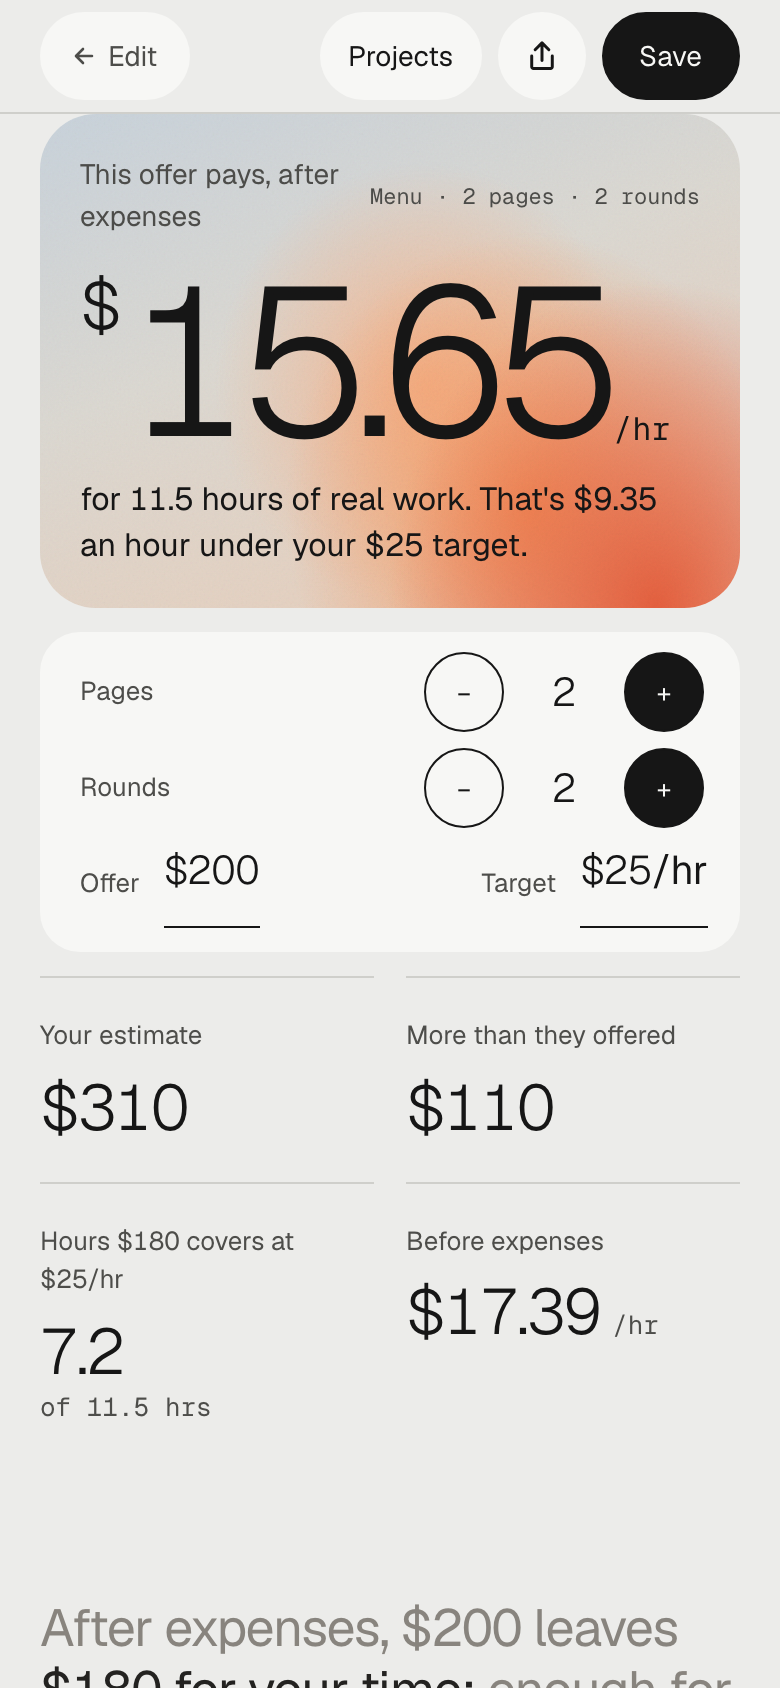
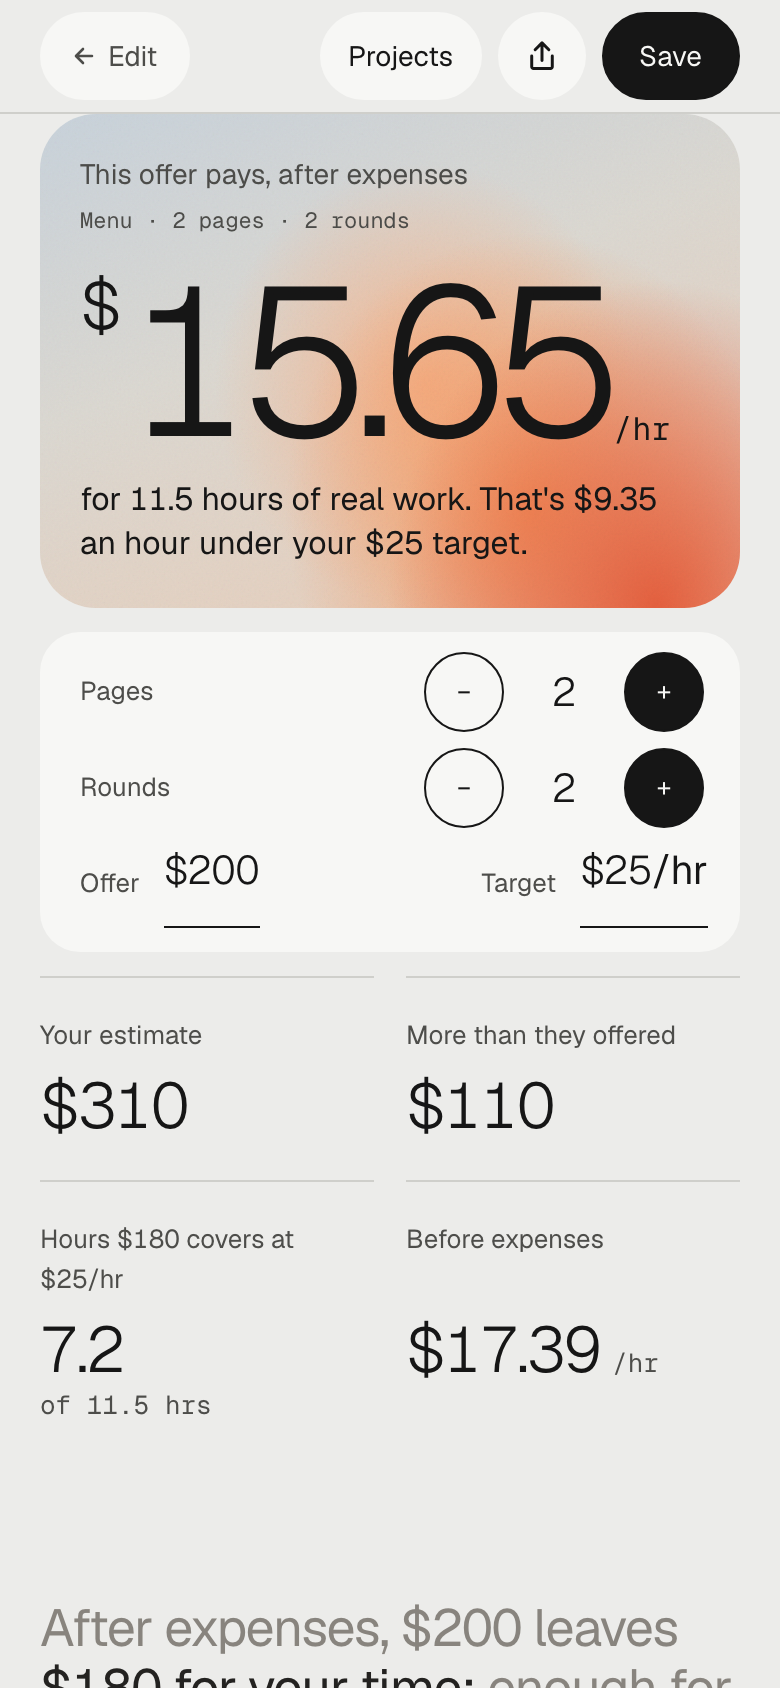
Fit the phone hero label on one line and line up the stat numbers

diff --git a/styles.css b/styles.css
@@ -3625,6 +3625,31 @@ textarea {
   grid-column: span 2;
 }
 
+/* Stats 2 by 2 (under 960px): each pair shares its label row, as tall as the
+   longer label, so the two numbers sit on one line even when a label wraps. */
+@media (max-width: 959px) {
+  .stats {
+    row-gap: 0;
+  }
+
+  .stats > div {
+    display: grid;
+    grid-row: span 2;
+    grid-template-rows: subgrid;
+    /* One column as wide as the stat, so big numbers still shrink to fit. */
+    grid-template-columns: minmax(0, 1fr);
+    row-gap: 0;
+  }
+
+  .stats > div:nth-child(-n + 2) {
+    margin-bottom: 28px;
+  }
+
+  .stats dd {
+    align-self: start;
+  }
+}
+
 /* Tablet (8 columns): the inputs and charts stack; stats 2 by 2; price and
    reply side by side, 4 + 4. */
 @media (min-width: 760px) {
@@ -4259,11 +4284,11 @@ textarea {
     padding: 20px;
   }
 
-  /* "This offer pays" and the job summary on top, the number, then the sentence. */
+  /* "This offer pays", the job summary on its own line under it, the number,
+     then the sentence. The label gets the whole row so it fits on one line. */
   .hero-content {
     display: grid;
-    grid-template-columns: minmax(0, 1fr) auto;
-    column-gap: 12px;
+    grid-template-columns: minmax(0, 1fr);
     min-height: 0;
   }
 
@@ -4279,14 +4304,15 @@ textarea {
   }
 
   .hero-job {
-    grid-row: 1;
-    grid-column: 2;
-    align-self: center;
+    grid-row: 2;
+    grid-column: 1;
+    margin-top: 4px;
     font-size: 11px;
+    text-align: left;
   }
 
   .hero-number {
-    grid-row: 2;
+    grid-row: 3;
     grid-column: 1 / -1;
     margin-top: 20px;
     white-space: nowrap;
@@ -4302,7 +4328,7 @@ textarea {
 
   .hero-sentence,
   .warning {
-    grid-row: 3;
+    grid-row: 4;
     grid-column: 1 / -1;
     margin-top: 16px;
     font-size: 16px;
@@ -4348,12 +4374,15 @@ textarea {
   }
 
   .stats {
-    row-gap: 20px;
     margin-top: 12px;
   }
 
   .stats > div {
     padding-top: 20px;
+  }
+
+  .stats > div:nth-child(-n + 2) {
+    margin-bottom: 20px;
   }
 
   .stats dt {

diff --git a/docs/DECISIONS.md b/docs/DECISIONS.md
@@ -114,6 +114,7 @@ Note: the logo lands on the same 11.5 hrs and $310 as the menu, and the poster o
 47. **The rate after expenses is the headline (November 16, 2026).** Kayla's design. The hero now shows what the offer pays per hour after the project's expenses ("This offer pays, after expenses", $15.65), and every target comparison uses that rate ("That's $9.35 an hour under your $25 target", was $7.61). Expenses come out of the offer before any of it pays for time, so the before-expense rate made offers look closer to the target than they are; the rate chart, Ways to close the gap, and the Projects dashboard already used the after-expense rate, so now the whole result uses one measure (this replaces decision 43's "the screen 2 hero stays before"). The half-cent rule stays: $307.49 for the menu ($24.9991/hr after expenses) meets the target. The before-expense rate moves to the fourth stat, "Before expenses", and the third stat names the budget, "Hours $180 covers at $25/hr". A sentence under the stats says it in words: "After expenses, $200 leaves $180 for your time: enough for 7.2 of your 11.5 hours at your $25 target." Its gray is `--ink-3`, darkened from the proposed #8E8A83 (2.90:1) to #88847E (3.14:1), decided with Kayla, since even 40px text needs 3:1.
 48. **The gradient loses its lavender (November 16, 2026).** Kayla's design. The sunset's base went from blue to lavender to peach; it now goes from a gray-blue (#C9D3DC) through warm sand (#DCD9D2) to peach (#EBCDB8), and the hot colors are a softer apricot (#F59A62) and coral (#E5603F). The lavender read as a second hue next to the warm colors and made the panel look busy. It changes everywhere the gradient is used, through the four tokens (`--red`, `--sunset`, `--glow`, `--paid`): the screen 1 glow, the button's circle, the hero panel, the hours chart, the picked gap card, the Projects dashboard, and the saved image, whose canvas draws the same hex values. The wordmark's ring now uses it too, as a diagonal gradient. Every new color is lighter than the one it replaces, so text on the gradient keeps its contrast (measured: `--ink-2` at least 5.37:1, `--ink` at least 5.44:1, at 390 and 1440px).
 49. **The budget split is separate from the task breakdown (November 16, 2026).** Kayla's design. The old hours chart showed two things in one bar (which tasks, and which hours the offer paid for) and called the rest "unpaid", which isn't true: the student is paid for them, just below the target. Now one 72px bar shows only how far the budget goes at the target ("7.2 hrs at your target" in the gradient, "4.3 hrs more than it covers" in a quiet `--beyond`), split by a charcoal line labeled "$180 covers up to here at $25/hr", and a separate "By task" row shows the hours per task, widths by hours. The top of the page no longer says "unpaid". The charts stack, so each gets the full width, and the rate chart is restyled to match: charcoal curve and target, a `--short` area where the rate is below the target, a coral current dot. Decided with Kayla: the `--beyond` outline is #89847B (3.14:1 on the page), darker than the proposed #A39D93 (2.28:1), so the bar's edge passes 3:1 for chart marks; the chart keeps the play-once motion, adapted (the bar wipes in, the gradient fills to the split, then the line and labels); and a task is never narrower than its label, so small and 0-hour tasks stay readable.
+50. **Phone hero and stats line up (November 17, 2026).** Kayla's call, from the review of decision 47. On phones the longer label "This offer pays, after expenses" shared its row with the job summary and wrapped onto two lines; the job summary now has its own line under the label (left aligned), so the label fits on one line at 360 and 390px. Below 960px the stats sit 2 by 2, and "Hours $180 covers at $25/hr" wraps onto two lines, which pushed its number below the one beside it. Each pair of stats now shares a label row as tall as the longer label (CSS subgrid), so both numbers sit on one line; the label text is unchanged. Desktop is unchanged.
 
 ## Known limits of version 1
 

diff --git a/docs/DESIGN.md b/docs/DESIGN.md
@@ -267,10 +267,10 @@ Sizes:
 - Add bottom padding to the page so the bar never covers the last field.
 
 **Screen 2: result**
-- Hero: on the grid lines (20px from the sides), 28px radius. "This offer pays, after expenses" and the mono job summary on top, the number, then the sentence under it in ink.
+- Hero: on the grid lines (20px from the sides), 28px radius. "This offer pays, after expenses" on one line, the mono job summary on its own line under it (left aligned), the number, then the sentence under it in ink.
 - Live controls in a `--paper` panel (20px radius, outer edge on the grid lines) right under the hero, not sticky: the item stepper, the rounds stepper, then Offer and Target on one row.
   Reason: the desktop bar doesn't fit a phone. Right under the answer is where people try "what if".
-- Stats in a 2x2 grid.
+- Stats in a 2x2 grid (below 960px). The two labels in a row share one height, the taller one's, so the two numbers sit on one line when a label wraps.
 - The summary sentence at 26px.
 - Hours chart full width: the subtitle under the title, the 72px budget bar (labels that don't fit go under it), and By task in a 2 by 2 grid. The split label is placed as on desktop (see Chart 1).
   Reason: four tasks in one row don't fit a phone.
